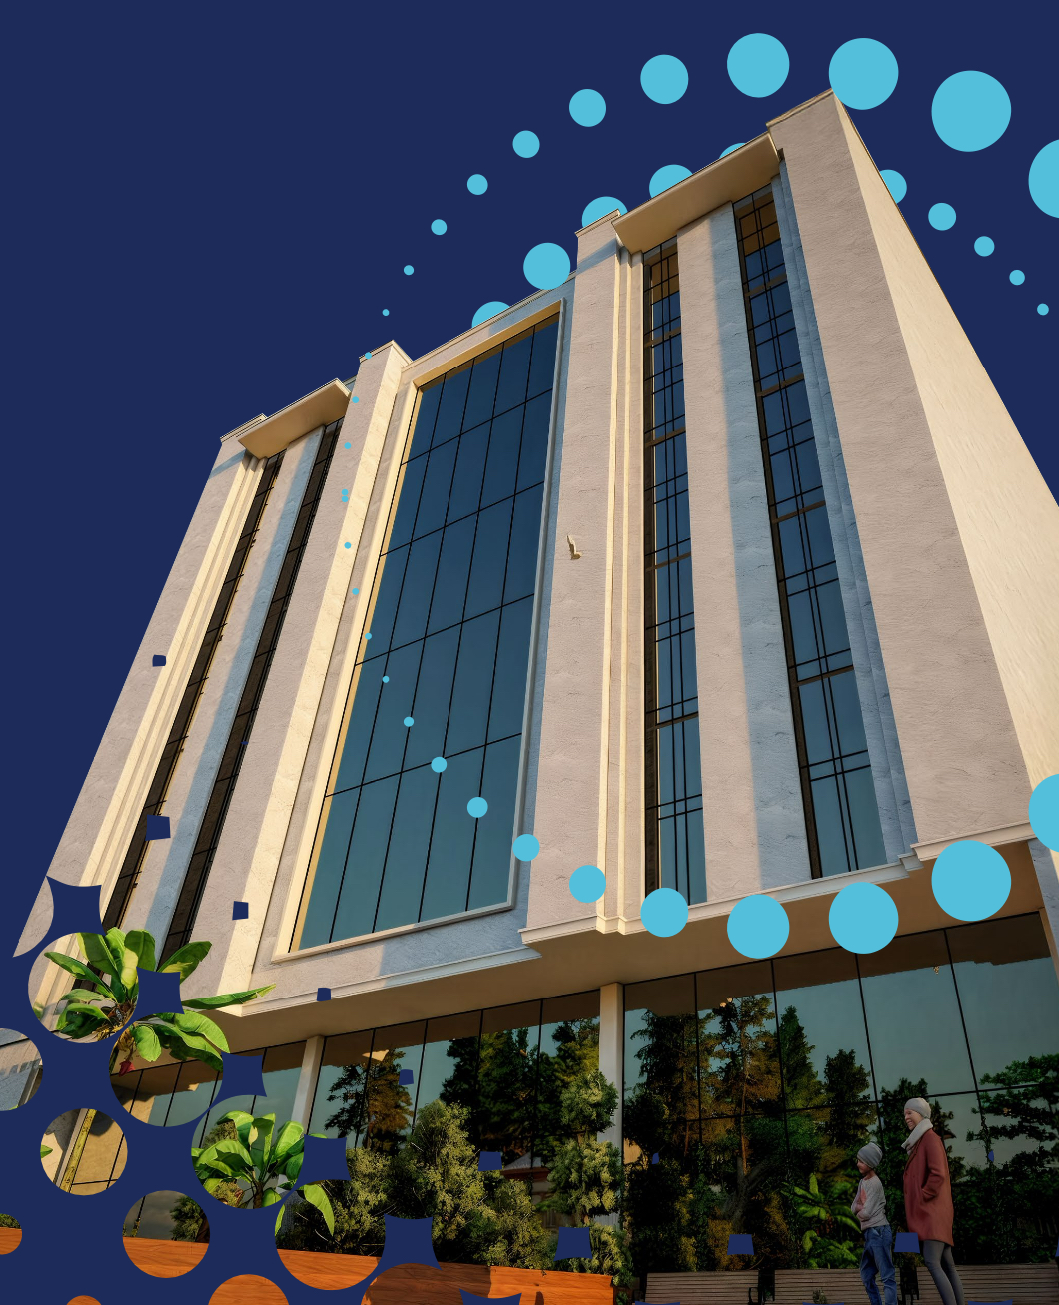
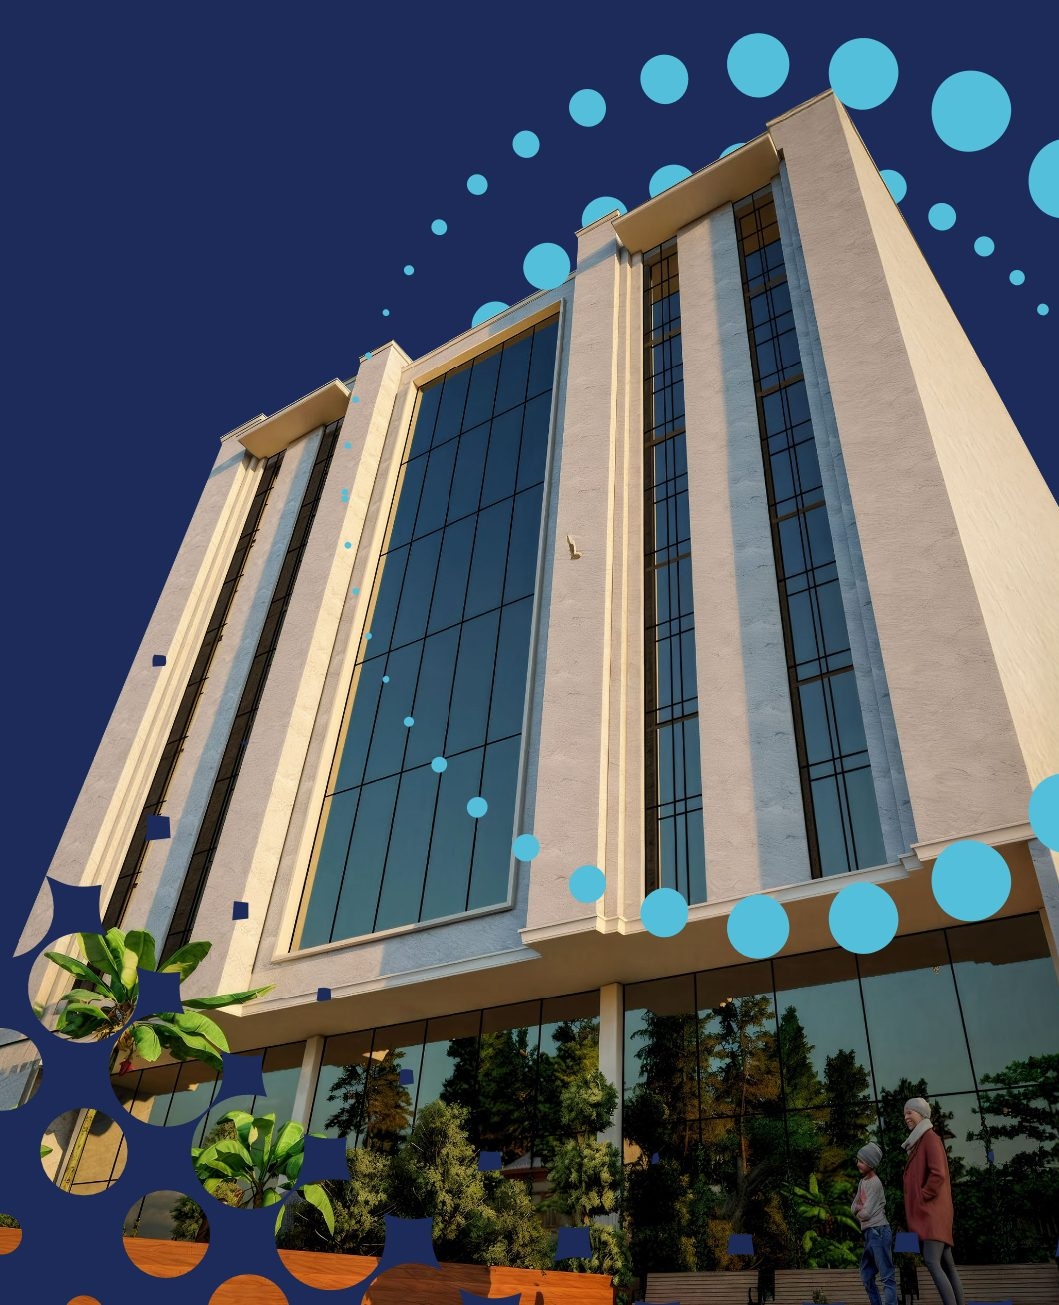
Replace template README and shrink gallery images
- README: project overview, features, AI assistant security design,
  stack, structure, run and deploy steps (was the default Vite template)
- Gallery images: four 9.5 MB PNG files saved as .jpg re-encoded as
  real 1920px JPEGs (~223 KB each); building/exterior 1.2 MB -> 212 KB.
  The Business Suites page drops from ~40 MB of images to under 1.5 MB.

Claude-Session: https://claude.ai/code/session_01WMKs6sbo78gn9JMVjY1Hkd

Changed region(s): [[0.2493, 0.9195, 0.2805, 0.9502], [0.0935, 0.7663, 0.1246, 0.7969]]

diff --git a/README.md b/README.md
@@ -1,32 +1,69 @@
-# React + TypeScript + Vite
+# WorkSpace Baghdad — Café, Rooftop Padel & Business Suites
 
-This template provides a minimal setup to get React working in Vite with HMR and some Oxlint rules.
+Bilingual (Arabic / English) website for WorkSpace in Hay Al-Jamia, Baghdad: a specialty café, a rooftop padel club, a sixth-floor meeting room and serviced business suites, all in one site.
 
-Currently, two official plugins are available:
+**Live:** [workspace-cafe.pages.dev](https://workspace-cafe.pages.dev)
 
-- [@vitejs/plugin-react](https://github.com/vitejs/vite-plugin-react/blob/main/packages/plugin-react) uses [Oxc](https://oxc.rs)
-- [@vitejs/plugin-react-swc](https://github.com/vitejs/vite-plugin-react/blob/main/packages/plugin-react-swc) uses [SWC](https://swc.rs/)
+## Features
 
-## React Compiler
+- **Gateway page** — visitors pick one of four areas: café menu, padel, meeting room, or business suites.
+- **Café menu and cart** — categorised menu with a cart drawer; the order is sent as a pre-filled WhatsApp message.
+- **Padel court and meeting-room booking** — pick a date and time, send the request on WhatsApp, and add it to Google Calendar in one click.
+- **Padel shop** — product catalogue with filters and product details, ordered through WhatsApp.
+- **Business suites page** — office solutions, photo gallery, client logo marquee and contact actions.
+- **Full Arabic and English versions** — every screen switches language, with right-to-left layout in Arabic.
+- **AI site assistant** — a chat widget answers visitor questions in Arabic or English, grounded in the venue's real facts (hours, prices, contact).
 
-The React Compiler is not enabled on this template because of its impact on dev & build performances. To add it, see [this documentation](https://react.dev/learn/react-compiler/installation).
+## How the AI assistant is secured
 
-## Expanding the Oxlint configuration
+The browser never talks to the AI model directly:
 
-If you are developing a production application, we recommend enabling type-aware lint rules by installing `oxlint-tsgolint` and editing `.oxlintrc.json`:
-
-```json
-{
-  "$schema": "./node_modules/oxlint/configuration_schema.json",
-  "plugins": ["react", "typescript", "oxc"],
-  "options": {
-    "typeAware": true
-  },
-  "rules": {
-    "react/rules-of-hooks": "error",
-    "react/only-export-components": ["warn", { "allowConstantExport": true }]
-  }
-}
+```
+Browser ──POST /api/chat──▶ Pages Function ──service binding──▶ Worker (workers/chat-api.ts) ──▶ Workers AI
 ```
 
-See the [Oxlint rules documentation](https://oxc.rs/docs/guide/usage/linter/rules) for the full list of rules and categories.
+- The Worker has no public URL (`workers_dev: false`, no preview URLs) and is reachable only through the Pages service binding.
+- Rate limit of 10 requests per minute per visitor IP (Cloudflare rate-limiting binding).
+- Request body capped at 32 KB, each message at 1,000 characters, history at the last 8 messages.
+- Strict security headers on every response (CSP, HSTS, `X-Frame-Options`, `Referrer-Policy`, `Permissions-Policy`).
+- Model: `@cf/meta/llama-3.3-70b-instruct-fp8-fast`, with a system prompt that forbids inventing prices, availability or policies.
+
+## Stack
+
+| Layer | Technology |
+|---|---|
+| Frontend | React 19, TypeScript, Vite, Tailwind CSS, lucide-react icons |
+| Hosting | Cloudflare Pages |
+| API | Cloudflare Pages Functions + a Cloudflare Worker |
+| AI | Cloudflare Workers AI (Llama 3.3 70B) |
+| Linting | Oxlint |
+
+## Project structure
+
+```
+src/
+  App.tsx              pages: Gateway, Menu, Reservation, Padel Shop, Office Solutions
+  ChatBotWidget.tsx    floating AI assistant
+  ErrorBoundary.tsx
+functions/api/chat.ts  Pages Function that forwards /api/chat to the Worker
+workers/chat-api.ts    the Worker: validation, rate limit, Workers AI call
+public/                images, logos, favicon
+wrangler.jsonc         Pages project config (service binding to the Worker)
+wrangler.chat.jsonc    Worker config (AI binding, rate limit)
+```
+
+## Run locally
+
+```bash
+npm install
+npm run dev          # frontend only, Vite dev server
+npm run dev:pages    # full stack: Pages + Functions + the chat Worker via wrangler
+```
+
+## Deploy
+
+```bash
+npm run deploy:pages # builds, deploys the chat Worker, then the Pages site
+```
+
+Requires a Cloudflare account logged in with `wrangler login`.
